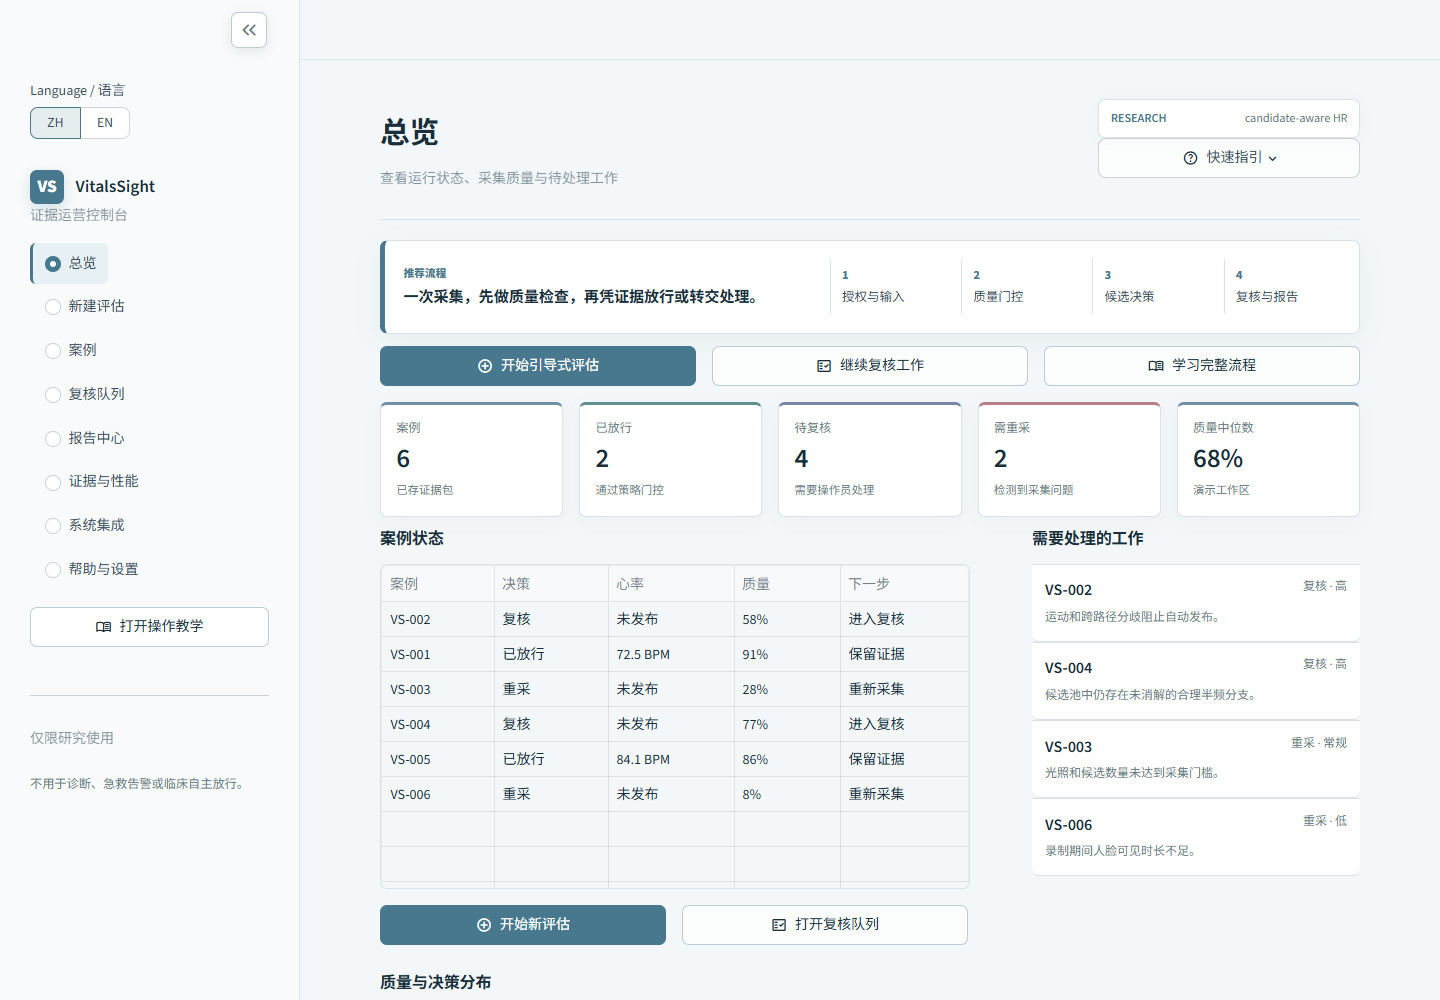
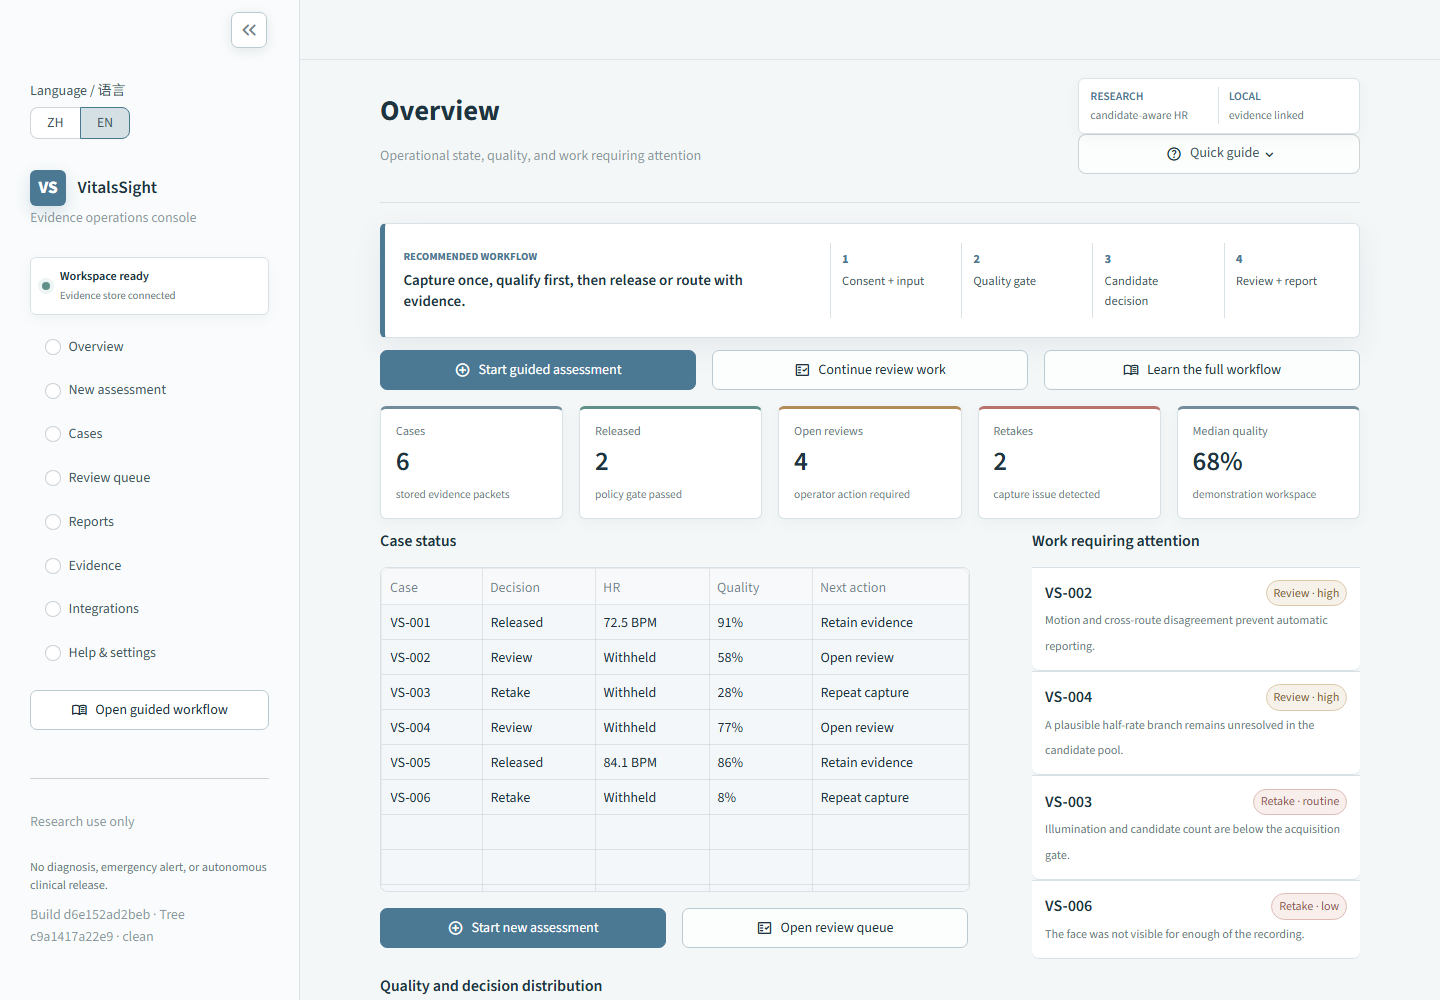
Document final product QA evidence

diff --git a/docs/PRODUCT_QA_REPORT.md b/docs/PRODUCT_QA_REPORT.md
@@ -14,9 +14,17 @@ Verification date: 2026-07-15
 - The REST API shares the SQLite evidence store and output contract with the UI. Multipart uploads are deleted after processing in the tested delete-after-analysis mode.
 - Chinese and English interfaces share the same case state and numeric values.
 
+## Validated source snapshot
+
+- Git commit: `d6e152ad2beb1461c3cf4e5a0a88e0155e56595e`
+- Git tree: `c9a1417a22e981431b162887728310d513ba5096`
+- Unit/static evidence: `52/52` passing
+- Browser/UI evidence: `119/119` passing
+- Real-video backend/API evidence: `21/21` contract matches
+
 ## Automated checks
 
-The full suite contains 49 passing tests. It covers strict non-release HR withholding, finite release values, candidate-track aggregation, evidence attribution, quality-gate semantics, SQLite persistence, bilingual reports, preflight and runtime failures, API endpoints, raw-video deletion, uploader reset, sidebar recovery, navigation behavior, runtime-model installation and provenance, explicit rejection of non-converged ICA routes, and the rule that static-ROI fallback evidence can never enter a release state. Dedicated regressions confirm that a preflight `retake` report does not mislabel an unentered candidate stage or a passing luma check as a failure, that a failed ICA route is not relabelled as an independent method by silently returning GREEN, that an unpinned Face Landmarker asset fails runtime integrity validation, that legacy Face Mesh cannot enter the release path, and that exported reports redact legacy absolute paths.
+The full suite contains 52 passing tests. It covers strict non-release HR withholding, finite release values, candidate-track aggregation, evidence attribution, quality-gate semantics, SQLite persistence, bilingual reports, preflight and runtime failures, API endpoints, raw-video deletion, uploader reset, sidebar recovery, navigation behavior, runtime-model installation and provenance, explicit rejection of non-converged ICA routes, and the rule that static-ROI fallback evidence can never enter a release state. Dedicated regressions confirm that a preflight `retake` report does not mislabel an unentered candidate stage or a passing luma check as a failure, that a failed ICA route is not relabelled as an independent method by silently returning GREEN, that an unpinned Face Landmarker asset fails runtime integrity validation, that legacy Face Mesh cannot enter the release path, that exported reports redact legacy absolute paths, that assessment controls preserve canonical values across language switches, and that the four-stage progress, privacy contract, and HR-withholding output contract remain visible.
 
 ```bash
 .venv/Scripts/python -m pytest -q
@@ -24,7 +32,7 @@ The full suite contains 49 passing tests. It covers strict non-release HR withho
 git diff --check
 ```
 
-Observed result: `49 passed`; compile and whitespace checks passed.
+Observed result: `52 passed`; syntax and whitespace checks passed.
 
 ## Real-video implementation conformance
 
@@ -32,25 +40,28 @@ Seven hash-locked MCD-rPPG fixtures form a post hoc curated regression/conforman
 
 The released fixture produced 75.0628 BPM. A reference-only Lead-II ECG comparison produced 77.1208 BPM, an absolute difference of 2.0581 BPM. ECG/reference HR was not passed to candidate construction, selection, or gating. The fixtures were curated for behavioral conformance, not sampled as an independent accuracy cohort.
 
-Evidence is written to the operator-selected `output/real_video_product_validation_<run>/` directory. The v2 fixture contract preserves the frozen state expectation and HR-withholding rule while defining the 9825 review invariant at the mechanism level (`cross_window_candidate_track`), because both no-stable-track and competing-track subtypes require the same non-release action.
+Final evidence is retained in `output/real_video_product_validation_20260715_ui_final_v2/`. The v2 fixture contract preserves the frozen state expectation and HR-withholding rule while defining the 9825 review invariant at the mechanism level (`cross_window_candidate_track`), because both no-stable-track and competing-track subtypes require the same non-release action.
 
 ## Real-browser checks
 
-Playwright exercised the final service at 1440 x 1000 and in a separate fresh 390 x 844 mobile context. The committed browser assertions verified:
+Playwright exercised the final service at 1440 x 1000 and in a separate fresh 390 x 844 mobile context. All 119 assertions passed. The committed browser checks verified:
 
 - real-video release, review, and retake outcomes against their expected states;
-- consent warnings, run feedback, clear/reset behavior, and raw-upload deletion;
-- all eight workspaces, the role-based guide content, and its complete start action;
+- consent warnings, purpose/retention state, privacy/output contracts, four-stage progress, run feedback, clear/reset behavior, and raw-upload deletion;
+- stable, conflict, and low-light built-in demonstrations in addition to the three real-video states;
+- Chinese/English round-trip localization without mixed assessment labels;
+- all eight workspaces, overview commands, header/sidebar guides, role-based guide content, and role-specific start actions;
 - PDF, JSON, Markdown, CSV, and OpenAPI downloads;
 - report detail, evidence-to-action, attribution, review/audit, and structured-data tabs;
 - review assignment, note, resolution, save feedback, and `review.updated` persistence;
 - integration audit persistence in the shared case store, operator save, and non-destructive demo restoration;
 - sidebar restoration on desktop and in a fresh mobile session, plus automatic mobile close after navigation;
-- no page-level horizontal overflow at 390 px and zero browser-console errors.
+- explicit case-search empty/clear states and protocol evidence rendering;
+- no page-level horizontal overflow at 390 px and zero browser-console, page, or unexpected HTTP errors.
 
 The harness refuses to run against a dirty working tree or a commit argument that differs from the checked-out Git commit. Both the API and Streamlit service publish their own build commit/tree, and the harness compares those identities with the validating checkout before exercising the workflow. The manifest records the validated service build, commit, and Git tree, so the browser evidence is source-bound rather than a free-form session label.
 
-The final desktop release case reported 75.1 BPM and an acquisition-gate state of Passed. The final review and retake cases withheld HR. The browser console, page-error stream and unexpected HTTP-response error list were empty. Screenshots, DOM text snapshots, downloads, database and logs are retained under the operator-selected `output/browser_validation_<run>/` directory.
+The final desktop release case reported 75.1 BPM and an acquisition-gate state of Passed. The final review and retake cases withheld HR. The browser console, page-error stream and unexpected HTTP-response error list were empty. Screenshots, DOM text snapshots, downloads, database and logs are retained in `output/ui_refinement_20260715_final_v7/`.
 
 ## Defects repaired
 
@@ -70,6 +81,10 @@ The final desktop release case reported 75.1 BPM and an acquisition-gate state o
 14. FastICA convergence warnings are promoted to route failures; an unconverged or failed ICA output is omitted rather than being counted or replaced by a GREEN signal under the ICA label. Route name, region, window, error class, and omission count remain in runtime evidence.
 15. Exported evidence reports expose only detector asset names and hashes, not absolute workstation paths.
 16. Browser QA now uses a repository-local pinned Playwright dependency, a clean-tree/commit gate, and a separate fresh mobile browser context.
+17. Language switching now synchronizes canonical assessment values instead of leaving stale translated widget labels.
+18. Assessment progress exposes current, completed, and next stages, alongside visible raw-video privacy and non-release HR-withholding contracts.
+19. The visual system now uses a restrained clinical blue, teal, muted amber, and muted coral palette with consistent state semantics across cards, tables, reports, and charts.
+20. Overview, assessment, case, review, report, evidence, integration, help, export, reset, and mobile navigation command families all have visible outcomes and browser coverage.
 
 ## Product boundary
 

diff --git a/README.md b/README.md
@@ -68,7 +68,7 @@ The endpoint returns `release`, `review`, or `retake`. Only `release` may contai
 
 The previous experiment-heavy dashboard is retained at `app/legacy_research_dashboard.py` for provenance, but it is no longer the default product surface. See [docs/PRODUCT_BENCHMARK_AND_COMPLETION.md](docs/PRODUCT_BENCHMARK_AND_COMPLETION.md) for the official-source product benchmark and implemented workflow contract.
 
-The final functional and visual verification record is in [docs/PRODUCT_QA_REPORT.md](docs/PRODUCT_QA_REPORT.md).
+The final functional and visual verification record is in [docs/PRODUCT_QA_REPORT.md](docs/PRODUCT_QA_REPORT.md). The finite command-by-command coverage contract is recorded in [docs/PRODUCT_FUNCTION_MATRIX_20260715.md](docs/PRODUCT_FUNCTION_MATRIX_20260715.md).
 
 The frozen real-video backend/API replay and the real-browser workflow are reproducible with the committed validation harnesses:
 